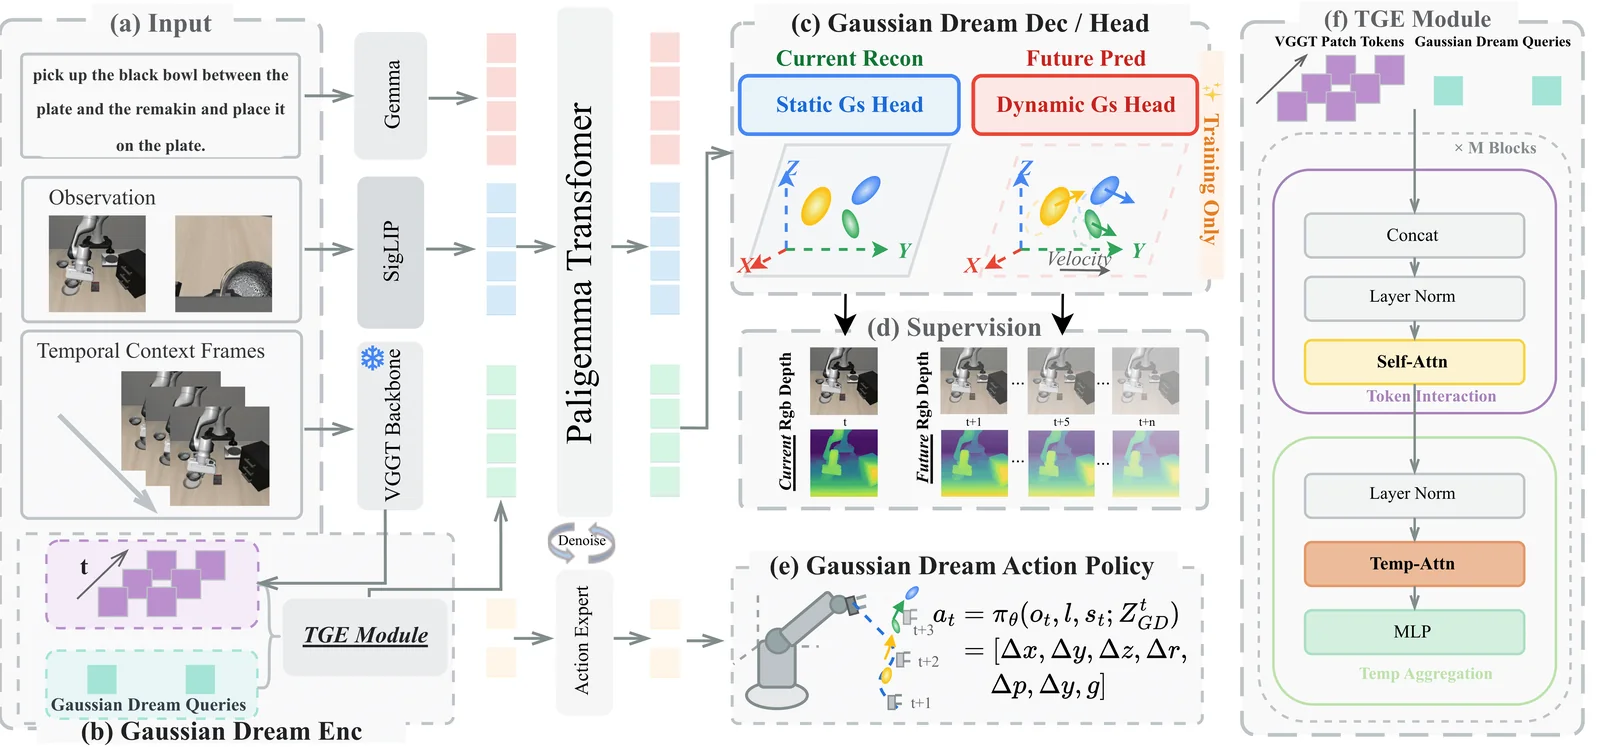
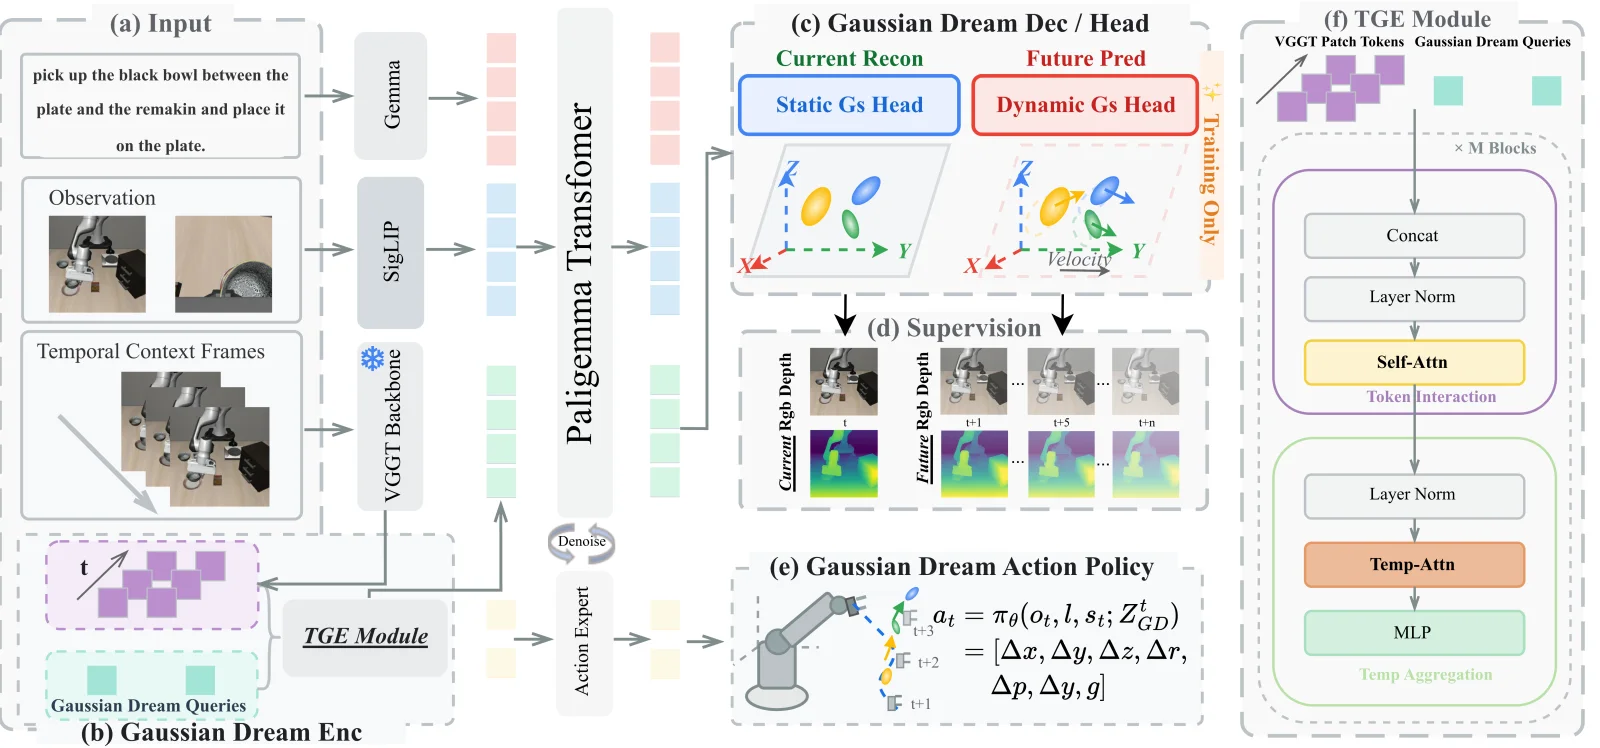
GaussianDream 按 arXiv v2 源码重写，补四张论文配图
底本换成 arXiv-2605.20752v2.tar.gz 的 LaTeX 源码（此前是从 PDF 读的）。
正文块 21 → 26。三张主表 + 消融表逐格核对与源码一致，行号抽检 30 余条
全中，无编造数字。

配图从 1 张增到 4 张，全部取自论文 assets/：
- hero ← comparation_3（引言 Fig 1）四栏对照：2D VLA / 3D 增强 VLA /
  视频-隐空间世界模型 / GaussianDream。站上此前只有框架图，读者看不出
  它跟别的 3D-VLA 差在哪，这张一行讲清
- framework_final_v（方法图，与站上原有那张同版，未变）
- piper_setup_2（真机任务）
- appendix_inference_speed（推理延迟，此前只有 531/569 ms 文字）

对抗性核对判 PASS_WITH_FIXES，六处必修全部应用：
- 删掉派生数字「领先 Being-H0.5 的幅度是 0.9」——源码里没有这个数，
  是自算差值
- 真机表 note 不再把 Scene-A..D 与任务类别绑定：论文称最大增益在空间
  关系与长时程任务，但从未给出场景编号与任务类别的对应
- 边界「腕部相机不进入高斯分支」是推断，改为「论文未描述它是否参与」
- 「约束不住度量几何」→「不足以完全约束」（源码是 cannot fully constrain）
- 「稠密几何证据大部分没有被用上」→「很多稠密的像素级几何信号没有被
  充分利用」（源码是 underexploited）
- 60K 步等训练超参不再挂在 Stage II 名下，源码未区分阶段

另加：边界一节开头注明「以下为依据论文的方法与结果整理，论文本身没有
单独的局限性章节」——避免读成论文自陈。

diff --git a/src/versions/legacyProjects.ts b/src/versions/legacyProjects.ts
@@ -8,7 +8,10 @@
    作者一律用论文的英文原名与署名顺序，共同一作标 *，通讯标 ‡。 */
 import csIntro from "../assets/projects/counterscene-intro.webp";
 import csMethod from "../assets/projects/counterscene-method.webp";
+import gdCompare from "../assets/projects/gaussiandream-compare.webp";
 import gdFramework from "../assets/projects/gaussiandream.webp";
+import gdLatency from "../assets/projects/gaussiandream-latency.webp";
+import gdReal from "../assets/projects/gaussiandream-real.webp";
 import rdFramework from "../assets/projects/recondrive.webp";
 import svRollouts from "../assets/projects/softvtbench-rollouts.webp";
 import svMethod from "../assets/projects/softvtbench-method.webp";
@@ -566,72 +569,30 @@ export const projects: Project[] = [
       "Zijian Zhang*, Yuqing Jiang*, Qian Cheng, Xiaofan Li, Si Liu, Ding Zhao, Ping Luo, Weitao Zhou, Haibao Yu‡（* equal contribution　‡ corresponding author）",
     affiliations:
       "Tuojing Intelligence · University of Chinese Academy of Sciences · Institute of Automation, Chinese Academy of Sciences · Tsinghua University · Zhejiang University · Beihang University · Carnegie Mellon University · The University of Hong Kong",
-    lede: "一个挂在 VLA 策略上的前馈式 3D 高斯世界模型插件：训练时把机器人视频解码成当前帧高斯场景和短时程未来高斯演化，用 RGB、深度和伪 3D 场景流做稠密监督；推理时丢掉全部辅助头，只留一段前缀 token 参与动作生成。",
+    lede: "一个挂在 VLA 策略上的前馈式 3D 高斯世界模型插件：训练时把机器人视频解码成当前帧高斯场景和短时程未来高斯演化，当前帧用 RGB 渲染和深度监督，未来帧再加伪 3D 场景流；推理时丢掉全部辅助头，只留一段前缀 token 参与动作生成。基座是 π0.5，动作接口不变。",
     links: [
       { label: "arXiv 2605.20752", href: "https://arxiv.org/abs/2605.20752" },
       { label: "代码", href: "https://github.com/TuojingAI/GaussianDream" },
     ],
     hero: {
-      src: gdFramework,
+      src: gdCompare,
       caption:
-        "训练时时序视觉特征与可学习 queries 生成紧凑前缀，前缀被解码为当前与未来 3D 高斯状态，接受 RGB、深度与伪 3D 场景流监督；推理时全部辅助高斯解码头被丢弃，只有前缀参与动作生成。",
+        "四类做法的对照：2D VLA 只有二维语义；3D 增强的 VLA 提供当前帧的三维落地但不预测未来；视频与隐空间世界模型在二维或隐空间里预测未来；GaussianDream 在当前三维上下文之上预测未来的结构化三维几何。",
     },
     status: "论文已上 arXiv，代码已发布",
     body: [
-      {
-        kind: "p",
-        text: "视觉-语言-动作策略把预训练视觉语言模型的语义先验搬进了机器人控制，但监督信号仍以动作模仿为主。论文指出三处缺口：3D 空间结构和接触约束只隐式编码在视觉隐变量和动作标签里，抓取点偏移这类几何误差难以纠正；机器人轨迹里的物体布局、外观、深度这些稠密像素证据被浪费，因为动作损失只监督每一步的控制指令；环境在交互之后如何演化，标准 VLA 没有显式机制去预判。",
-      },
-      {
-        kind: "p",
-        text: "已有的两条补救路线各有代价。3D 增强策略用点云或深度图把当前场景静态锚住，对交互后的状态演化仍然沉默；世界模型在像素、隐空间或动作空间里预测未来，但迭代体素优化和自回归视频 rollout 会把推理开销推高，难以放进高频控制回路。GaussianDream 的做法是把两者都放在训练侧，推理侧只保留代价最小的那部分。",
-      },
+      { kind: "p", text: "标准 VLA 的训练以行为克隆为主，3D 结构和接触约束只隐式地编码在视觉隐变量和动作标签里，图像里很多稠密的像素级几何信号没有被充分利用，环境在交互之后怎么变也没有显式监督。GaussianDream 的做法是在编码器里放一组可学习的 GaussianDream Query，让模型把当前帧的 3D 结构和短时程演化压进一段前缀 token，训练时用两个辅助高斯头把这段前缀解码回可渲染的 3D 高斯状态来接受监督，推理时把这两个头全部丢掉。" },
       { kind: "h", text: "非对称的插件设计" },
-      {
-        kind: "p",
-        text: "基座策略是 π0.5。编码器里加入可学习的 GaussianDream queries，与来自 agent-view 那一路的短时观测序列一起经时序编码器产生一段前缀 token；这段前缀与图像、语言 token 共享 2048 维的 PaliGemma/Gemma-2B 前缀空间，动作专家用 1024 维隐空间。训练时这段前缀被两个辅助头解码：静态重建头产出当前 3D 高斯场景状态，未来预测头产出 horizon 条件下的高斯演化状态。推理时所有辅助解码头被丢弃，策略只在原有的多模态上下文里追加这段前缀，动作接口不变，不做测试时高斯重建、渲染、视频 rollout，也不加规划器。",
-      },
-      { kind: "h", text: "当前帧重建" },
-      {
-        kind: "p",
-        text: "1024 个 GaussianDream token 被 reshape 成 32×32 的隐格点，经解码骨干上采样成 256×256×128 的稠密特征图。几何头预测深度、旋转、尺度、不透明度，外观头结合当前 RGB 观测预测一阶球谐系数。深度反投影得到高斯中心，场景共 256×256 个高斯，随后渲染出 RGB 和深度接受监督。这一支的作用是逼迫前缀承载可渲染的显式几何。",
-      },
-      { kind: "h", text: "未来高斯预测" },
-      {
-        kind: "p",
-        text: "时序特征由 VGGT 提取多尺度 3D-aware patch 特征，按 32×32 自适应池化后投影成时间 token。Temporal Gaussian Evolution 模块含 12 个注意力块、8 个注意力头，交替做帧内空间交互和跨帧的时间槽注意力。动态头预测 horizon 条件下的高斯中心位移，尺度、不透明度、外观、旋转直接沿用当前高斯模板，把预测集中在交互引起的几何变化上。上下文取三帧 {t−10, t−5, t}，未来监督覆盖 t+1 到 t+5。",
-      },
-      { kind: "h", text: "两阶段训练与伪监督" },
-      {
-        kind: "list",
-        items: [
-          {
-            term: "Stage I",
-            desc: "只训重建与预测头，不做动作学习。当前分支用深度和渲染损失，未来分支加上伪 3D 场景流损失，预测 horizon 在训练中逐步放大以稳定优化。",
-          },
-          {
-            term: "Stage II",
-            desc: "与策略联合训练，动作损失是 π0.5 的 flow matching 目标，总目标为动作损失加上带权的 GaussianDream 辅助损失。",
-          },
-          {
-            term: "伪深度",
-            desc: "由 Depth Anything V2 从 agent-view RGB 生成，缩放回原分辨率后随 episode 数据存储，仅训练时使用。",
-          },
-          {
-            term: "伪 3D 场景流",
-            desc: "默认用 RAFT 估计相邻帧 2D 光流，Farneback 作为轻量回退；warp 后采样未来深度、用相机内参反投影两帧作差得到 3D 位移，并计算有效性掩码剔除越界和无效深度的像素。",
-          },
-          {
-            term: "训练配置",
-            desc: "60K 步，global batch size 24，AdamW，峰值学习率 5×10⁻⁵，cosine 调度，10K 步 warmup，梯度裁剪 1.0，EMA 衰减 0.999，A100 上混合精度。",
-          },
-        ],
-      },
+      { kind: "p", text: "前缀由一个时序 3D 感知编码器从 agent-view 观测序列生成，不改动基座策略的动作接口。上下文取三帧 {t−10, t−5, t}，提供稀疏运动线索。图像 token、语言 token 和 GaussianDream token 共享 2048 维的 PaliGemma/Gemma-2B 前缀空间，动作专家用 1024 维隐空间。Query 网格是 32×32，即 1024 个可学习 query，先投影到 512 通道，经 Temporal Gaussian Evolution 模块处理，再投回 VLM 宽度接到多模态前缀上。TGE 有 12 个注意力块、8 个头、4 倍扩张的 MLP，每个块先在单帧内对 query 与 patch token 做自注意力，再对跨帧的同一 token 槽做时间注意力，取最新一帧的输出作为前缀。时序视觉 token 来自 VGGT 特征抽头，经 32×32 自适应平均池化和线性投影到 512 通道。" },
+      { kind: "fig", fig: { src: gdFramework, caption: "GaussianDream 总览。训练时时序视觉特征与可学习 GaussianDream Query 生成一段紧凑前缀，前缀被解码成当前与未来 3D 高斯状态，接受 RGB、深度和伪 3D 场景流监督；推理时全部辅助高斯解码头被丢弃，只有前缀参与动作生成。" } },
+      { kind: "p", text: "当前帧重建把前缀重排成 32×32 的 token 网格，由共享的 token-to-feature 主干上采样成 256×256×128 的稠密特征图。主干是三个转置卷积块，核 4、步长 2、padding 1，通道从 VLM 宽度降到 512、256、128，每块含 GroupNorm、GELU、3×3 卷积和一条双线性残差短路，随后由 DPT 式融合块细化。几何分支用一个 3×3 卷积输出 8 个通道：四元数旋转 4、尺度 3、不透明度 1；深度分支单独走两层 3×3 卷积加 GroupNorm/GELU，最后一个 3×3 卷积出一个深度通道；外观分支可选地用 7×7 卷积融合 RGB 图像，输出 9 个球谐外观通道。深度按相机内参反投影成高斯中心，场景一共 256×256 个高斯。" },
+      { kind: "p", text: "未来预测复用同一张 256×256 特征图。horizon embedding 在 3×3 投影到 128 通道后加入，接一个含两层 3×3 卷积和 GroupNorm 的残差块，速度头用 3×3 卷积、GroupNorm、GELU 和一个 1×1 卷积输出 3 通道的中心速度图。速度过 tanh 后缩放，再乘上 horizon 时间因子，只更新高斯中心；尺度、不透明度、外观、旋转都从当前高斯模板复制。监督的 horizon 是 t+1 到 t+5。" },
+      { kind: "h", text: "伪监督与两阶段训练" },
+      { kind: "p", text: "深度目标由 Depth Anything V2 从单张 agent-view RGB 生成稠密伪深度，缩放回原分辨率后与 episode 数据一起存盘；在损失里深度目标是伪深度或仿真器提供的深度。场景流目标由相邻两帧构造：默认用 RAFT 估计 2D 光流，轻量回退是 Farneback，把 t 帧像素 warp 到 t+1，双线性采样未来深度，两帧各自按内参反投影，取三维点之差作为伪 3D 流。有效性掩码剔除 warp 出画面的对应、深度无效的像素以及超出设定深度范围的像素，无效流向量置零并排除在未来预测损失之外。每个 sidecar 存 2D 流、伪 3D 流、有效性掩码、相机内参、相机名以及 episode 与 task 索引等元数据。" },
+      { kind: "p", text: "训练分两阶段。Stage I 只训重建头和预测头，不学动作，目标是当前深度与渲染损失加上按 horizon 加权的未来深度、渲染和流损失，流损失是掩码归一化的 L1；预测 horizon 在训练中逐步放长以稳定优化。Stage II 与策略联合训练，动作损失是基座 π0.5 的 flow matching 目标，总目标为动作损失加上带权重的 GaussianDream 目标，辅助高斯损失的作用是保住前缀的时空结构。训练配置（源码未区分阶段）：60K 步，global batch 24，AdamW，峰值学习率 5e-5，cosine 调度，10K warmup，梯度裁剪 1.0，EMA 衰减 0.999，混合精度，NVIDIA A100。" },
       { kind: "h", text: "评测设置" },
-      {
-        kind: "p",
-        text: "LIBERO 按 Spatial、Object、Goal、Long 四个协议评，50 条演示、50 次评测 trial。RoboCasa 用 Human-50 少样本设置，覆盖 24 个长时程厨房任务、五个场景，每任务 50 次 trial。真机平台是 leader-follower 双臂：leader 臂只在遥操作采数据时用，follower 臂是执行臂，评测时由策略直接控制；观测来自 agent-view 和腕部两路 RGB 相机。",
-      },
+      { kind: "p", text: "LIBERO 走 Spatial、Object、Goal、Long 四个协议，50 条演示、50 次评测试验。RoboCasa 用 Human-50 少样本设置，24 个长时程厨房任务，跨五个场景，每任务 50 次试验。仿真侧的成功率是所有评测试验的平均。真机对照对象是基座 π0.5，平台是 leader-follower 双臂：leader 臂只在遥操作采数时由人操作，follower 臂在采数时跟随 leader、在自主评测时由策略控制，follower 臂装在移动底盘上。策略输入是语言指令、机器人状态和两路 RGB —— agent-view 相机看整体工作空间与空间关系，腕部相机提供夹爪附近的近距离观测。任务覆盖属性 grounding、空间关系、堆叠与拆叠、长时程执行。" },
+      { kind: "fig", fig: { src: gdReal, caption: "真机任务，覆盖属性 grounding、空间关系、堆叠与拆叠、长时程执行。" } },
       {
         kind: "table",
         head: ["方法", "Spatial", "Object", "Goal", "Long", "Average"],
@@ -647,8 +608,9 @@ export const projects: Project[] = [
           ["Spatial Forcing (PyTorch)", "98.6", "98.4", "98.2", "95.4", "97.6"],
           ["GaussianDream", "99.0", "99.6", "99.0", "96.0", "98.4"],
         ],
-        note: "LIBERO 成功率（%）。GaussianDream 在 Spatial 与 Goal 上最高，平均 98.4。LingBot-VA 平均 98.5 更高，但控制时用的是更大的自回归视频-动作管线。Spatial Forcing 取其 PyTorch 实现以保持实现口径一致。",
+        note: "LIBERO 成功率（%）。Spatial Forcing 一栏用的是其 PyTorch 实现，以保持实现口径一致。",
       },
+      { kind: "p", text: "GaussianDream 在 LIBERO 上拿到 Spatial 99.0 和 Goal 99.0 两项最高，平均 98.4。平均分不是最高的：LingBot-VA 以 98.5 领先，Long 一项它是 98.5，GaussianDream 是 96.0。差别在于 LingBot-VA 在控制阶段跑的是更大的自回归视频-动作管线，而 GaussianDream 只把预测当作训练期监督，推理仍是前缀式的。" },
       {
         kind: "table",
         head: ["方法", "Pick&Place", "Doors/Drawers", "Others", "Average"],
@@ -661,8 +623,9 @@ export const projects: Project[] = [
           ["Being-H0.5", "36.0", "71.7", "57.6", "53.9"],
           ["GaussianDream", "43.8", "66.3", "54.4", "54.8"],
         ],
-        note: "RoboCasa Human-50 成功率（%）。GaussianDream 平均最高，Pick&Place 最高；GeoPredict 在 Doors/Drawers 与 Others 上更高。",
+        note: "RoboCasa Human-50 成功率（%）。",
       },
+      { kind: "p", text: "RoboCasa 上最清楚的优势在对定位精度敏感的 Pick&Place，43.8 是这一列最高，平均 54.8 也是最高。但 Doors/Drawers 和 Others 两列都落后 GeoPredict（75.1 与 62.4），平均分高于 Being-H0.5 的 53.9。" },
       {
         kind: "table",
         head: ["方法", "Scene-A", "Scene-B", "Scene-C", "Scene-D", "Average"],
@@ -670,30 +633,38 @@ export const projects: Project[] = [
           ["π0.5", "42.5", "50.0", "25.0", "20.0", "34.4"],
           ["GaussianDream", "55.0", "70.0", "35.0", "40.0", "50.0"],
         ],
-        note: "真机成功率（%）。相对基线 π0.5 从 34.4 提到 50.0，四个场景组均有提升，增益最大的是空间关系类和长时程场景。真机任务覆盖属性 grounding、空间关系、堆叠与拆叠、长时程执行。",
+        note: "真机成功率（%）。四个场景全部提升，平均从 34.4 提到 50.0。论文另称最大增益出现在空间关系与长时程任务，但未给出场景编号与任务类别的对应。",
       },
       { kind: "h", text: "消融" },
       {
         kind: "table",
-        head: ["当前重建", "未来预测", "渲染分支", "深度分支", "LIBERO 平均"],
+        head: ["当前帧重建", "未来预测", "渲染分支", "深度分支", "LIBERO 平均"],
         rows: [
-          ["✓", "✗", "✗", "✗", "97.0"],
-          ["✓", "✗", "✓", "✓", "97.3"],
-          ["✓", "✓", "✗", "✓", "97.5"],
-          ["✓", "✓", "✓", "✗", "97.2"],
-          ["✓", "✓", "✓", "✓", "98.4"],
+          ["有", "无", "无", "无", "97.0"],
+          ["有", "无", "有", "有", "97.3"],
+          ["有", "有", "无", "有", "97.5"],
+          ["有", "有", "有", "无", "97.2"],
+          ["有", "有", "有", "有", "98.4"],
         ],
-        note: "只做当前重建已有 97.0，说明把观测重建成高斯状态本身就是有效的空间先验；加入未来预测到 97.5；保留未来预测和渲染但去掉深度降到 97.2，说明只靠 RGB 一致性约束不住度量几何；全量 98.4。",
+        note: "LIBERO 上的组件消融（%）。",
       },
-      { kind: "h", text: "推理开销" },
-      {
-        kind: "p",
-        text: "部署配置去掉辅助高斯解码器与预测头后，每个 action chunk 的推理耗时为 531 ms；保留解码器和预测头的诊断配置为 569 ms。两者都快于 WAM / World Action Model 基线的 700 ms 以上。附录同时给出与 π0.5 的执行平滑度对比，GaussianDream 的轨迹突变更少。",
-      },
+      { kind: "p", text: "只做当前帧重建就有 97.0，说明把观测解码成高斯状态本身提供了较强的空间先验。加上未来预测到 97.5。保留未来预测和渲染但去掉深度掉到 97.2，说明只有 RGB 一致性不足以完全约束度量几何。四项齐全是 98.4。需要注意的是消融表里 97.3 那一列同时开了渲染和深度两项，论文正文把 97.0→97.3 的差归给渲染分支。" },
+      { kind: "h", text: "推理开销与执行平滑度" },
+      { kind: "p", text: "部署配置下辅助高斯解码器与预测头被移除，每个动作块 531 ms；保留解码器和头的诊断配置是 569 ms。两者都快于 WAM / World Action Model 基线的 700 ms 以上。同一组真机分析里，GaussianDream 相比 π0.5 基线减少了轨迹的突变。" },
+      { kind: "fig", fig: { src: gdLatency, caption: "每个动作块的推理延迟对比，涵盖 GaussianDream 的两种配置与 WAM / World Action Model 基线。" } },
       { kind: "h", text: "边界" },
+      { kind: "p", text: "以下为依据论文的方法与结果整理，论文本身没有单独的局限性章节。" },
       {
-        kind: "p",
-        text: "未来预测只更新高斯中心，尺度、不透明度、外观、旋转都从当前模板复制，因此建模的是短时程的几何位移，不是外观或拓扑变化；监督 horizon 也只到 t+5。深度和 3D 场景流都是伪标签，来自 Depth Anything V2 与 RAFT，而非真值传感。LIBERO 上平均分仍低于走视频-动作自回归路线的 LingBot-VA，Long 一项也不是最好；RoboCasa 上 Doors/Drawers 与 Others 两类落后于 GeoPredict。真机结果只与 π0.5 基线对比，没有与其他 3D 增强或世界模型方法的物理对照。",
+        kind: "list",
+        items: [
+          { term: "未来只动中心", desc: "未来状态只更新高斯中心，尺度、不透明度、外观、旋转都从当前模板复制，因此建模的是短时程的几何位移，不是外观或拓扑变化。" },
+          { term: "时间窗口很窄", desc: "上下文只有三帧 {t−10, t−5, t}，监督 horizon 只到 t+5，且 horizon 在训练中是逐步放长的。" },
+          { term: "几何监督是伪标签", desc: "深度来自 Depth Anything V2 的单目估计或仿真器深度；3D 场景流是由 RAFT 二维光流加深度反投影拼出来的，靠有效性掩码剔除无效对应，无效向量直接置零不进损失。这不是测量得到的真值几何。" },
+          { term: "前缀的视觉来源单一", desc: "前缀只从 agent-view 时序观测序列构造，伪深度也只从 agent-view RGB 生成。真机设置里腕部相机是策略的观测输入之一；论文未描述它是否参与高斯重建与预测。" },
+          { term: "仿真上不是全面领先", desc: "LIBERO 平均分低于 LingBot-VA 的 98.5，Long 一项也不是最高；RoboCasa 的 Doors/Drawers 和 Others 落后 GeoPredict。" },
+          { term: "真机仍有一半失败", desc: "真机平均成功率 50.0%，最难的两个场景是 35.0 和 40.0。" },
+          { term: "报告口径", desc: "仿真按标准协议每任务 50 次连续试验取平均成功率，论文只给单一数字，没有报告重复实验的方差；真机表也未给出每个场景的试验次数。" },
+        ],
       },
     ],
   },
